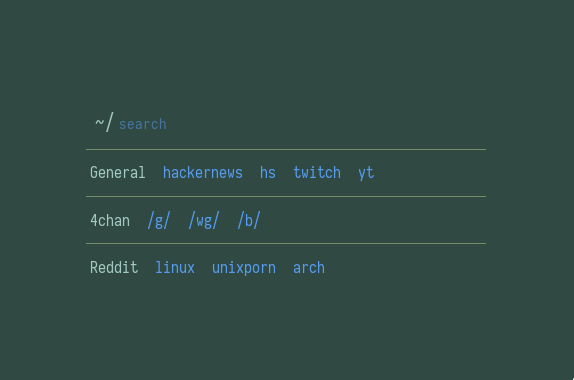
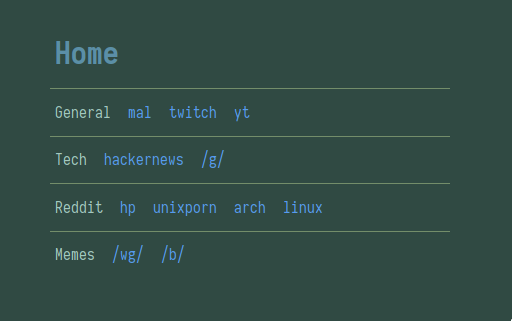
updated screenshot and links

diff --git a/index.html b/index.html
@@ -16,24 +16,29 @@
             <hr>
             <ul>
                 <li>General</li>
-                <li><a href="https://news.ycombinator.com">hackernews</a></li>
                 <li><a href="http://myanimelist.net">mal</a></li>
                 <li><a href="http://twitch.tv">twitch</a></li>
                 <li><a href="http://youtube.com">yt</a></li>
             </ul>
             <hr>
             <ul>
-                <li>4chan</li>
+                <li>Tech</li>
+                <li><a href="https://news.ycombinator.com">hackernews</a></li>
                 <li><a href="https://4chan.org/g/">/g/</a></li>
-                <li><a href="https://4chan.org/wg/">/wg/</a></li>
-                <li><a href="https://4chan.org/b/">/b/</a></li>
             </ul>
             <hr>
             <ul>
                 <li>Reddit</li>
-                <li><a href="https://reddit.com/r/linux">linux</a></li>
+                <li><a href="https://reddit.com/">hp</a></li>
                 <li><a href="https://reddit.com/r/unixporn">unixporn</a></li>
                 <li><a href="https://reddit.com/r/archlinux">arch</a></li>
+                <li><a href="https://reddit.com/r/linux">linux</a></li>
+            </ul>
+            <hr>
+            <ul>
+                <li>Memes</li>
+                <li><a href="https://4chan.org/wg/">/wg/</a></li>
+                <li><a href="https://4chan.org/b/">/b/</a></li>
             </ul>
         </main>
     </body>
